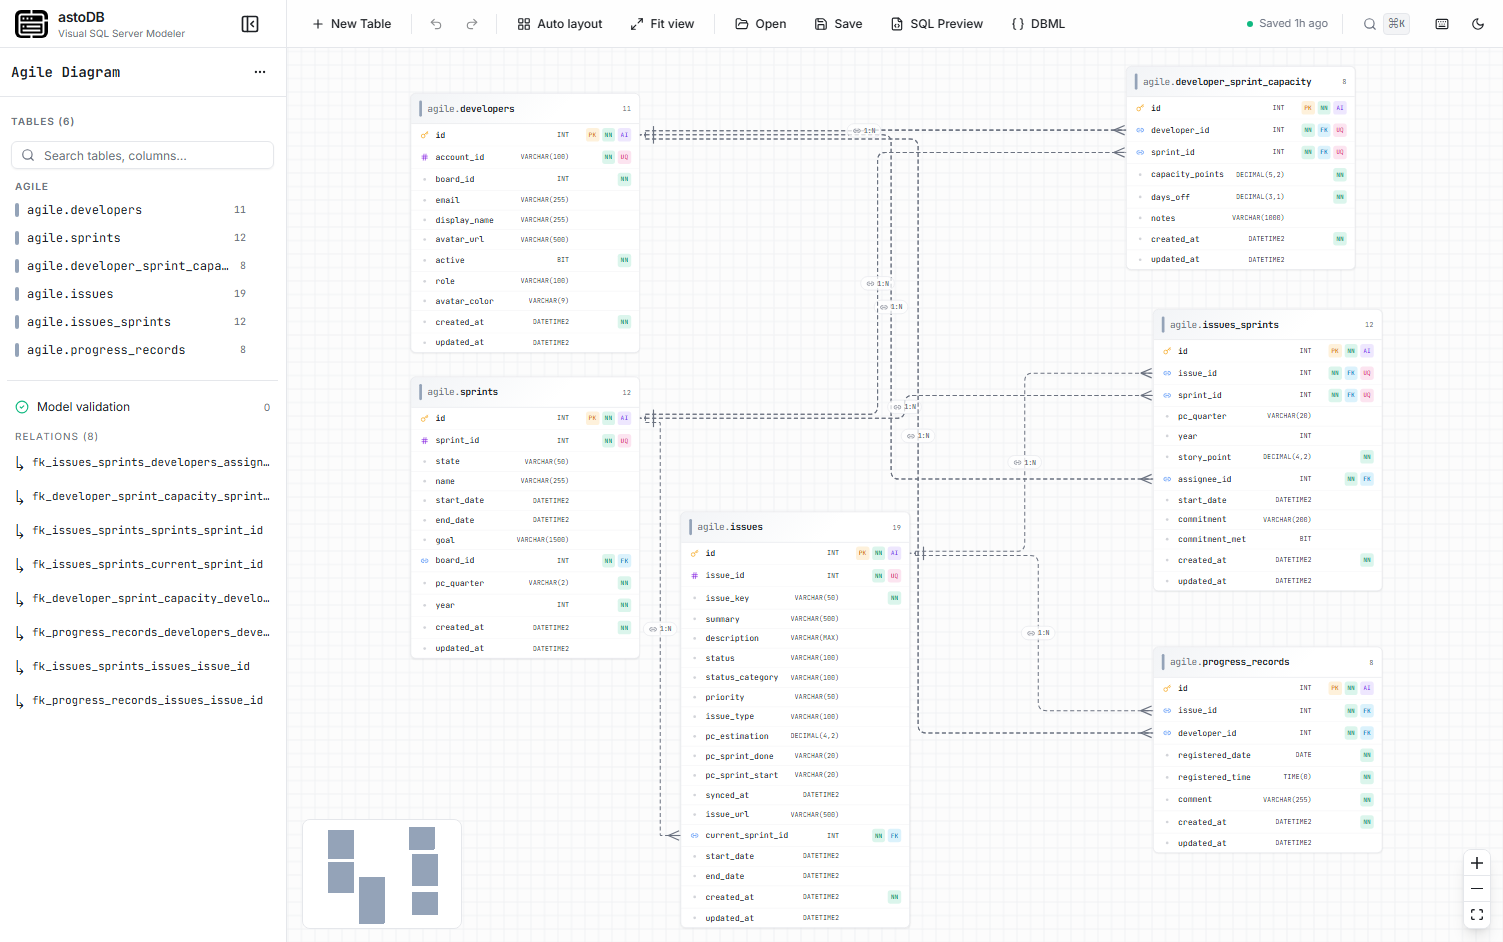
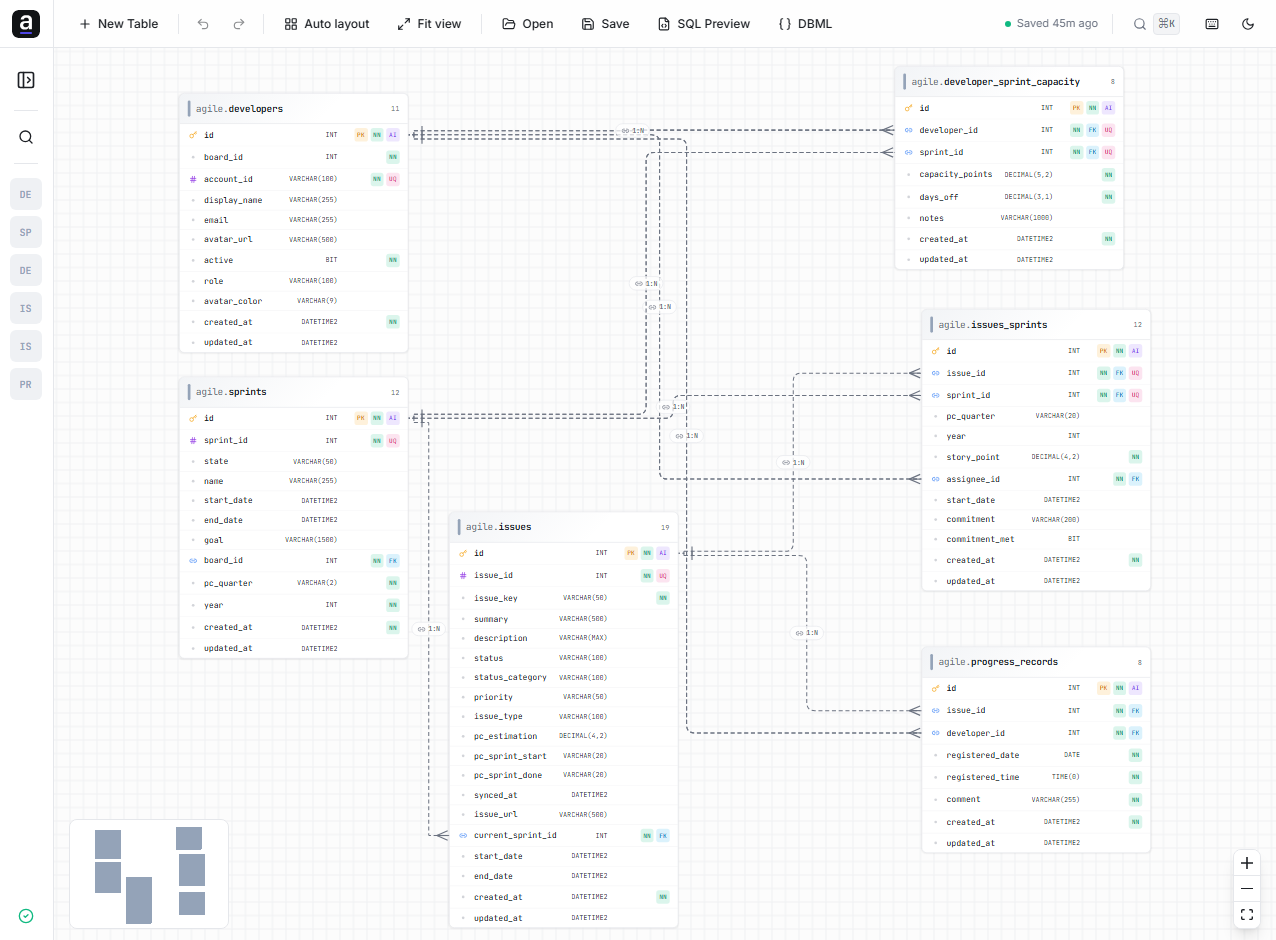
fix: recompute relation lanes once handle geometry is actually measured on reload
Reloaded diagrams persist each node's last-known `measured` size, so
useNodesInitialized reports true from the very first render — before the
ResizeObserver pass that fills in handleBounds has run. The lane memo never
got a second chance to recompute, leaving relations stacked on their
un-measured bend point. Track how many nodes currently have handleBounds set
and use that as an extra dependency, so the recompute fires once real
geometry lands even when nodesInitialized was already (prematurely) true.

diff --git a/src/components/Properties/PropertiesPanel.tsx b/src/components/Properties/PropertiesPanel.tsx
@@ -230,12 +230,12 @@ function TableProperties({ tableId }: { tableId: string }) {
       </div>
 
       <div className="rounded-md border border-border overflow-hidden">
-        <div className="flex items-center gap-2 pl-2 pr-3 py-1.5 text-[10px] font-semibold uppercase tracking-widest text-muted-foreground bg-muted/50 border-b border-border/50">
+        <div className="flex items-center gap-1.5 pl-2 pr-2 py-1 text-[10px] font-semibold uppercase tracking-widest text-muted-foreground bg-muted/50 border-b border-border/50">
           <div className="w-3 flex-shrink-0" />
           <span className="flex-1 min-w-0">Name</span>
           <span className="w-24 flex-shrink-0">Type</span>
-          <span className="w-16 flex-shrink-0 text-right">Flags</span>
-          <div className="w-5 flex-shrink-0" />
+          <span className="w-14 flex-shrink-0 text-right">Flags</span>
+          <div className="w-4 flex-shrink-0" />
         </div>
         <div className="divide-y divide-border/50">
           {table.columns.map((col, idx) => (
@@ -255,9 +255,47 @@ function TableProperties({ tableId }: { tableId: string }) {
 
 function ColumnEditor({ column, tableId, index, totalColumns }: { column: Column; tableId: string; index: number; totalColumns: number }) {
   const [expanded, setExpanded] = useState(false);
+  const [isDragOver, setIsDragOver] = useState(false);
+  const [isDragging, setIsDragging] = useState(false);
+  const dragAllowedRef = useRef(false);
   const updateColumn = useDiagramStore((s) => s.updateColumn);
   const deleteColumn = useDiagramStore((s) => s.deleteColumn);
   const reorderColumns = useDiagramStore((s) => s.reorderColumns);
+
+  // Dragging is only allowed when initiated from the grip handle (dragAllowedRef),
+  // so text selection / clicks inside inputs and selects keep working normally.
+  const handleDragStart = (e: React.DragEvent<HTMLDivElement>) => {
+    if (!dragAllowedRef.current) {
+      e.preventDefault();
+      return;
+    }
+    e.dataTransfer.effectAllowed = 'move';
+    e.dataTransfer.setData('text/plain', String(index));
+    setIsDragging(true);
+  };
+
+  const handleDragEnd = () => {
+    dragAllowedRef.current = false;
+    setIsDragging(false);
+    setIsDragOver(false);
+  };
+
+  const handleDragOver = (e: React.DragEvent<HTMLDivElement>) => {
+    e.preventDefault();
+    e.dataTransfer.dropEffect = 'move';
+    if (!isDragOver) setIsDragOver(true);
+  };
+
+  const handleDragLeave = () => setIsDragOver(false);
+
+  const handleDrop = (e: React.DragEvent<HTMLDivElement>) => {
+    e.preventDefault();
+    setIsDragOver(false);
+    const sourceIndex = Number(e.dataTransfer.getData('text/plain'));
+    if (!Number.isNaN(sourceIndex) && sourceIndex !== index) {
+      reorderColumns(tableId, sourceIndex, index);
+    }
+  };
 
   const { base, param } = parseTypeParam(column.type);
   const showLongitud = PARAM_TYPES.has(base);
@@ -286,19 +324,36 @@ function ColumnEditor({ column, tableId, index, totalColumns }: { column: Column
   };
 
   return (
-    <div className={cn('bg-background/50 transition-all', expanded && 'bg-accent/20')}>
-      <div className="flex items-center gap-2 pl-2 pr-3 py-1.5">
-        <GripVertical className="w-3 h-3 text-muted-foreground/40 flex-shrink-0" />
+    <div
+      className={cn(
+        'bg-background/50 transition-all',
+        expanded && 'bg-accent/20',
+        isDragging && 'opacity-40',
+        isDragOver && 'border-t-2 border-primary',
+      )}
+      draggable
+      onDragStart={handleDragStart}
+      onDragEnd={handleDragEnd}
+      onDragOver={handleDragOver}
+      onDragLeave={handleDragLeave}
+      onDrop={handleDrop}
+    >
+      <div className="flex items-center gap-1.5 pl-2 pr-2 py-1">
+        <GripVertical
+          className="w-3 h-3 text-muted-foreground/40 flex-shrink-0 cursor-grab active:cursor-grabbing"
+          onMouseDown={() => { dragAllowedRef.current = true; }}
+          onMouseUp={() => { dragAllowedRef.current = false; }}
+        />
 
         <Input
           value={column.name}
           onChange={(e) => updateColumn(tableId, column.id, { name: e.target.value })}
-          className="h-7 px-1.5 text-xs font-mono border-0 bg-transparent focus-visible:bg-background flex-1 min-w-0"
+          className="h-6 px-1.5 text-xs font-mono border-0 bg-transparent focus-visible:bg-background flex-1 min-w-0"
           placeholder="column_name"
         />
 
         <Select value={BASE_TYPES.includes(base) ? base : 'VARCHAR'} onValueChange={handleTypeChange}>
-          <SelectTrigger title={base} className="h-7 w-24 flex-shrink-0 px-1.5 text-xs font-mono">
+          <SelectTrigger title={base} className="h-6 w-24 flex-shrink-0 px-1.5 text-xs font-mono">
             <SelectValue />
           </SelectTrigger>
           <SelectContent>
@@ -314,21 +369,21 @@ function ColumnEditor({ column, tableId, index, totalColumns }: { column: Column
           <ToggleIcon active={column.isUnique} onClick={() => updateColumn(tableId, column.id, { isUnique: !column.isUnique })} color="hsl(var(--erd-unique))" icon={<Hash className="w-3 h-3" />} title="Unique" />
         </div>
 
-        <button onClick={() => setExpanded(!expanded)} className="w-5 flex-shrink-0 text-muted-foreground hover:text-foreground flex items-center justify-center">
+        <button onClick={() => setExpanded(!expanded)} className="w-4 flex-shrink-0 text-muted-foreground hover:text-foreground flex items-center justify-center">
           {expanded ? <ChevronUp className="w-3 h-3" /> : <ChevronDown className="w-3 h-3" />}
         </button>
       </div>
 
       {expanded && (
-        <div className="px-2 pb-2 space-y-2 border-t border-border/50 pt-2">
-          <div className={cn('grid gap-2', canAutoIncrement ? 'grid-cols-2' : 'grid-cols-1')}>
+        <div className="px-2 pb-1.5 space-y-1.5 border-t border-border/50 pt-1.5">
+          <div className={cn('grid gap-1.5', canAutoIncrement ? 'grid-cols-2' : 'grid-cols-1')}>
             <SwitchRow compact label="Not Null" checked={!column.isNullable} onChange={(v) => updateColumn(tableId, column.id, { isNullable: !v })} disabled={column.isPrimaryKey} />
             {canAutoIncrement && (
               <SwitchRow compact label="Auto Increment" checked={column.isAutoIncrement} onChange={(v) => updateColumn(tableId, column.id, { isAutoIncrement: v })} />
             )}
           </div>
           {/* Short-value fields share a row; Comment stays full-width since it holds free text. */}
-          <div className={cn('grid gap-2', showLongitud ? 'grid-cols-2' : 'grid-cols-1')}>
+          <div className={cn('grid gap-1.5', showLongitud ? 'grid-cols-2' : 'grid-cols-1')}>
             {showLongitud && (
               <Field label="Length / precision">
                 <Input
@@ -336,17 +391,17 @@ function ColumnEditor({ column, tableId, index, totalColumns }: { column: Column
                   onChange={(e) => setLocalParam(e.target.value)}
                   onBlur={(e) => commitLongitud(e.target.value)}
                   onKeyDown={(e) => { if (e.key === 'Enter') commitLongitud(localParam); }}
-                  className="h-7 text-xs font-mono"
+                  className="h-6 text-xs font-mono"
                   placeholder="e.g. 50 or 10,2"
                 />
               </Field>
             )}
             <Field label="Default value" optional>
-              <Input value={column.defaultValue ?? ''} onChange={(e) => updateColumn(tableId, column.id, { defaultValue: e.target.value })} className="h-7 text-xs font-mono" placeholder="NULL" />
+              <Input value={column.defaultValue ?? ''} onChange={(e) => updateColumn(tableId, column.id, { defaultValue: e.target.value })} className="h-6 text-xs font-mono" placeholder="NULL" />
             </Field>
           </div>
           <Field label="Comment" optional>
-            <Input value={column.comment ?? ''} onChange={(e) => updateColumn(tableId, column.id, { comment: e.target.value })} className="h-7 text-xs" placeholder="Description..." />
+            <Input value={column.comment ?? ''} onChange={(e) => updateColumn(tableId, column.id, { comment: e.target.value })} className="h-6 text-xs" placeholder="Description..." />
           </Field>
           {column.references && (
             <div className="rounded-md border border-sky-500/30 bg-sky-500/10 px-2 py-1.5 text-[11px] text-sky-700 dark:text-sky-300">
@@ -506,7 +561,7 @@ function Field({ label, children, optional }: { label: string; children: React.R
 
 function ToggleIcon({ active, onClick, color, icon, title }: { active: boolean; onClick: () => void; color: string; icon: React.ReactNode; title: string }) {
   return (
-    <button onClick={onClick} title={title} className={cn('w-5 h-5 rounded flex items-center justify-center transition-all', active ? 'bg-foreground/10' : 'opacity-30 hover:opacity-100')} style={active ? { color } : undefined}>
+    <button onClick={onClick} title={title} className={cn('w-4 h-4 rounded flex items-center justify-center transition-all', active ? 'bg-foreground/10' : 'opacity-30 hover:opacity-100')} style={active ? { color } : undefined}>
       {icon}
     </button>
   );

diff --git a/src/components/Sidebar/Sidebar.tsx b/src/components/Sidebar/Sidebar.tsx
@@ -30,6 +30,15 @@ import { APP_NAME, APP_TAGLINE } from '@/constants';
 import { validateDiagram } from '@/utils/validation';
 import type { Table } from '@/types';
 
+function AppLogo({ className }: { className?: string }) {
+  return (
+    <>
+      <img src={`${import.meta.env.BASE_URL}icon-light-theme.svg`} alt={APP_NAME} className={cn(className, 'dark:hidden')} />
+      <img src={`${import.meta.env.BASE_URL}icon-dark-theme.svg`} alt={APP_NAME} className={cn(className, 'hidden dark:block')} />
+    </>
+  );
+}
+
 export function Sidebar() {
   const [search, setSearch] = useState('');
   const diagrams = useDiagramStore((s) => s.diagrams);
@@ -93,9 +102,7 @@ export function Sidebar() {
       <aside className="w-14 border-r border-border bg-card flex flex-col items-center h-full">
         {/* h-12 matches the toolbar so the border line runs flush across both */}
         <div className="h-12 w-full border-b border-border flex items-center justify-center gap-1 flex-shrink-0">
-          <div className="h-7 rounded-md bg-black dark:bg-white flex items-center justify-center flex-shrink-0 overflow-hidden">
-            <img src={`${import.meta.env.BASE_URL}icon.svg`} alt={APP_NAME} className="h-full w-auto invert dark:invert-0" />
-          </div>
+          <AppLogo className="h-7 w-7 rounded-md flex-shrink-0" />
         </div>
 
         <div className="flex-1 w-full min-h-0 flex flex-col items-center gap-1.5 py-3">
@@ -160,9 +167,7 @@ export function Sidebar() {
     <aside className="w-72 border-r border-border bg-card flex flex-col h-full">
       {/* App header — h-12 matches the toolbar so the border line runs flush across both */}
       <div className="h-12 px-4 border-b border-border flex items-center gap-2.5 flex-shrink-0">
-        <div className="h-7 rounded-md bg-black dark:bg-white flex items-center justify-center flex-shrink-0 overflow-hidden">
-          <img src={`${import.meta.env.BASE_URL}icon.svg`} alt={APP_NAME} className="h-full w-auto invert dark:invert-0" />
-        </div>
+        <AppLogo className="h-7 w-7 rounded-md flex-shrink-0" />
         <div className="min-w-0 flex-1 leading-tight">
           <h1 className="font-semibold text-sm tracking-tight truncate">{APP_NAME}</h1>
           <p className="text-[10px] text-muted-foreground truncate">{APP_TAGLINE}</p>

diff --git a/src/components/Canvas/Canvas.tsx b/src/components/Canvas/Canvas.tsx
@@ -45,8 +45,20 @@ export function Canvas() {
   // On a fresh load, nodeLookup's handle bounds fill in asynchronously after mount, but
   // mutating an existing node's bounds doesn't always replace the Map reference — so a
   // selector on nodeLookup alone can miss that update and leave relations laid out with
-  // their un-measured (all stacked on one bend point) geometry. This hook flips true once
-  // every node has actually been measured, forcing the lane computation below to re-run.
+  // their un-measured (all stacked on one bend point) geometry. useNodesInitialized alone
+  // isn't enough either: reloaded diagrams persist each node's last-known `measured` size
+  // (it round-trips through onNodesChange into our store), so React Flow considers nodes
+  // "initialized" from the very first render — before the ResizeObserver pass that actually
+  // fills in handleBounds has run. Counting how many nodes currently have handleBounds set
+  // gives a primitive that changes the moment that real measurement lands, forcing the lane
+  // computation below to re-run even when nodesInitialized was already (prematurely) true.
+  const measuredHandleCount = useStore((s) => {
+    let count = 0;
+    for (const node of s.nodeLookup.values()) {
+      if (node.internals.handleBounds) count++;
+    }
+    return count;
+  });
   const nodesInitialized = useNodesInitialized();
 
   const activeDiagram = useDiagramStore((s) => s.diagrams.find((d) => d.id === s.activeDiagramId));
@@ -259,7 +271,7 @@ export function Canvas() {
       });
     }
     return computeEdgeLanes(geometries);
-  }, [rawEdges, fanAssignment, nodeLookup, nodesInitialized]);
+  }, [rawEdges, fanAssignment, nodeLookup, nodesInitialized, measuredHandleCount]);
 
   const edges = useMemo((): RelationEdgeType[] => {
     return rawEdges.map((edge) => {

diff --git a/index.html b/index.html
@@ -10,7 +10,7 @@
       href="https://fonts.googleapis.com/css2?family=Inter:wght@400;500;600;700&family=JetBrains+Mono:wght@400;500;600;700&display=swap"
       rel="stylesheet"
     />
-    <title>Schema · ERD Modeler</title>
+    <title>astoDB · Visual SQL Server Modeler</title>
   </head>
   <body>
     <div id="root"></div>
